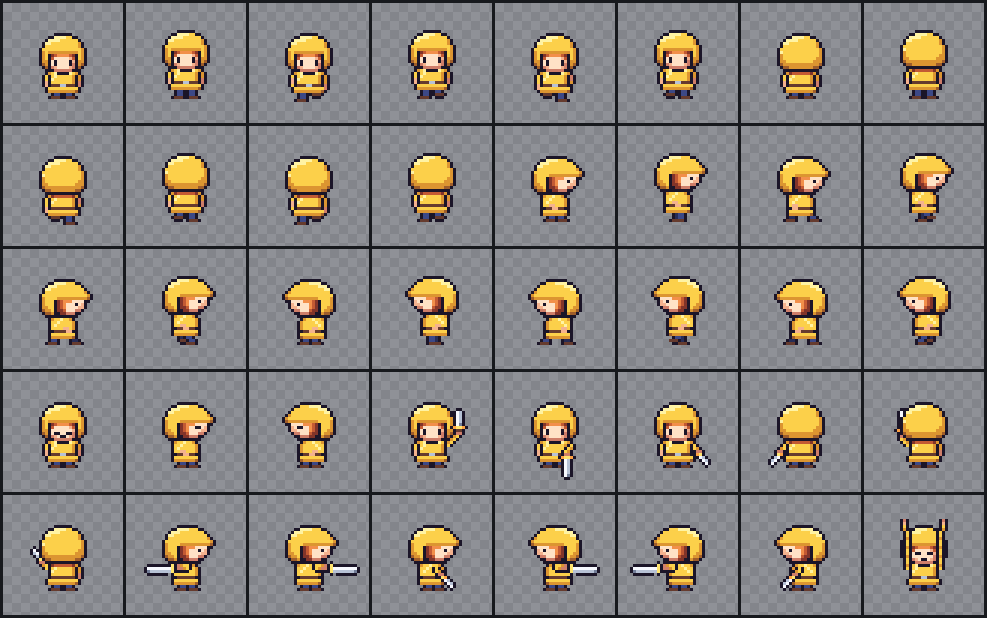
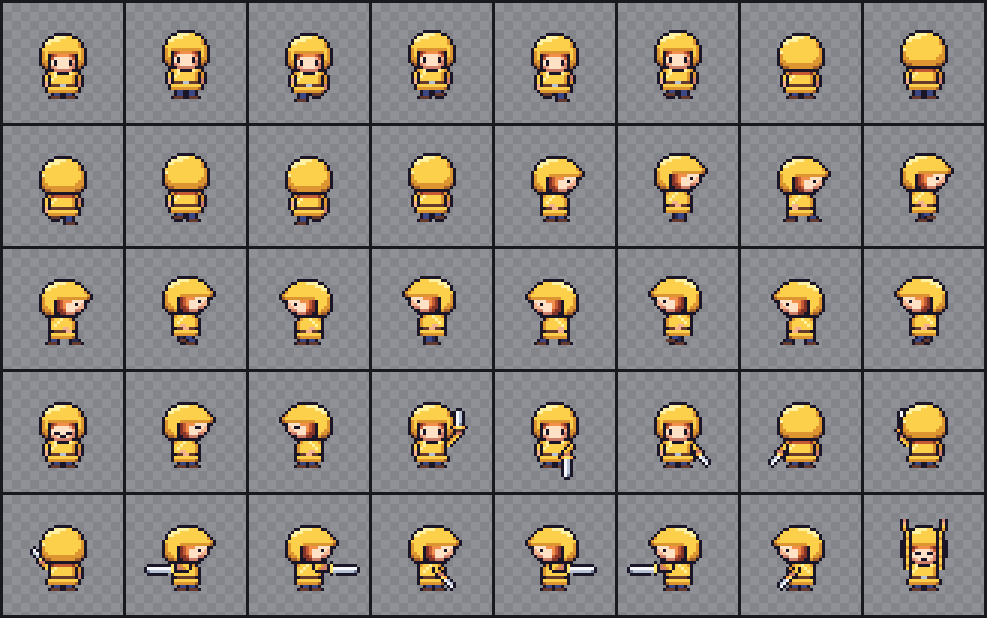
Use one mirror convention: reflect poses around the anchor corner
The pose compiler's `mirror` reflected around the middle of the origin
pixel (column c -> 2 * originX - c) while drawFrame's flipX, like
engines that flip around the atlas pivot, reflects around the anchor
corner (c -> 2 * originX - 1 - c). A compiled mirror and a runtime flip
of the same pose were one pixel apart.

- The compiler now reflects around the origin corner, so a compiled
  left-facing pose placed by its anchor draws exactly what drawFrame
  draws when flipping the right-facing one. A new test rasterizes both
  through the runtime (trimmed and untrimmed sheets) and fails under
  the old rule.
- Tidewatch: the keeper's front view is symmetric around its anchor
  corner (columns 12-27 around x 20); the old rule left the ten
  left-facing poses a pixel right of a true mirror (centroid 20.75
  against 20.25 facing right). They now mirror exactly (19.75). The
  trimmed atlas image is unchanged; its metadata records the offsets,
  and left-facing blade tips mirror the right-facing ones.
- Docs, schema and skill describe the single convention.

diff --git a/test/authoring.test.js b/test/authoring.test.js
@@ -11,10 +11,10 @@ const actor = (poses, extra = {}) => ({ format: 'pixelforge-poses', version: 1, 
   parts: { body: { rows: ['aab', 'a..'], anchor: [0, 1], points: { hand: [2, 0] } }, blade: { rows: ['bb'], anchor: [0, 0], points: { tip: [1, 0] } } }, poses, ...extra });
 const pixelsOf = (project, frame) => { const f = project.frames.find(x => x.name === frame); return [...f.data]; };
 const mirrored = (data, width, height, originX) => {
-  // Reflect pixel columns around the origin column: c -> 2 * originX - c.
+  // Reflect pixel columns around the origin corner: c -> 2 * originX - 1 - c, as drawFrame flips.
   const out = new Array(data.length).fill(0);
   for (let y = 0; y < height; y++) for (let x = 0; x < width; x++) {
-    const tx = 2 * originX - x;
+    const tx = 2 * originX - 1 - x;
     if (tx >= 0 && tx < width) for (let c = 0; c < 4; c++) out[(y * width + tx) * 4 + c] = data[(y * width + x) * 4 + c];
   }
   return out;
@@ -31,16 +31,16 @@ test('pose instances flip their grid, anchor and points inside the part', () => 
   assert.equal(Object.getPrototypeOf(recipe.symbols), Object.prototype);
 });
 
-test('mirrored poses reflect parts, points and markers around the origin column and inherit timing', () => {
+test('mirrored poses reflect parts, points and markers around the origin corner and inherit timing', () => {
   const source = actor([
     { name: 'right', duration: 140, origin: [5, 6], parts: [{ name: 'torso', part: 'body' }, { name: 'held', part: 'blade', attach: { part: 'torso', point: 'hand' } }], markers: [{ name: 'hit', part: 'held', point: 'tip' }] },
     { name: 'left', mirror: 'right' }
   ]);
   const { recipe, metadata } = compilePoses(source), project = renderProject(recipe);
   assert.deepEqual(pixelsOf(project, 'left'), mirrored(pixelsOf(project, 'right'), 12, 8, 5));
-  assert.deepEqual([metadata.poses.right.markers[0].at, metadata.poses.left.markers[0].at], [[8, 5], [2, 5]]);
+  assert.deepEqual([metadata.poses.right.markers[0].at, metadata.poses.left.markers[0].at], [[8, 5], [1, 5]]);
   assert.deepEqual(project.frames.map(f => [f.name, f.duration]), [['right', 140], ['left', 140]]);
-  assert.deepEqual([recipe.anchor, recipe.frames[1].points], [[5, 6], { hit: [2, 5] }]);
+  assert.deepEqual([recipe.anchor, recipe.frames[1].points], [[5, 6], { hit: [1, 5] }]);
   assert.throws(() => compilePoses(actor([{ name: 'left', mirror: 'right' }, { name: 'right', origin: [0, 0], parts: [] }])), /earlier pose/);
   assert.throws(() => compilePoses(actor([{ name: 'right', parts: [] }, { name: 'left', mirror: 'right', origin: [1, 1] }])), /its origin/);
 });
@@ -134,4 +134,37 @@ test('PNG import keeps up to 256 colours as compact, lossless palette grids', ()
   assert.equal(imported.provenance.representation, 'palette grids with hidden-RGB corrections');
   assert.equal(Object.keys(imported.recipe.palette).length, 256);
   assert.deepEqual([...renderProject(imported.recipe).frames[0].data], [...data]);
+});
+
+// A 2D context stand-in that rasterizes drawImage through translate/scale(-1, 1), sampling pixel centres.
+function rasterContext(width, height) {
+  const out = new Uint8ClampedArray(width * height * 4), stack = [];
+  let tx = 0, ty = 0, sx = 1;
+  return {
+    out, imageSmoothingEnabled: true,
+    save() { stack.push([tx, ty, sx]); }, restore() { [tx, ty, sx] = stack.pop(); },
+    translate(x, y) { tx += x * sx; ty += y; }, scale(a) { sx *= a; },
+    drawImage(image, srcX, srcY, srcW, srcH, dx, dy, dw, dh) {
+      for (let j = 0; j < dh; j++) for (let i = 0; i < dw; i++) {
+        const u = srcX + Math.floor(i * srcW / dw), v = srcY + Math.floor(j * srcH / dh), from = (v * image.width + u) * 4;
+        const X = Math.floor(tx + sx * (dx + i + 0.5)), Y = Math.floor(ty + dy + j + 0.5);
+        if (X >= 0 && Y >= 0 && X < width && Y < height && image.data[from + 3]) out.set(image.data.subarray(from, from + 4), (Y * width + X) * 4);
+      }
+    }
+  };
+}
+test('a compiled mirror placed by its anchor draws exactly what drawFrame draws when flipping the original', async () => {
+  const { drawFrame } = await import('../src/runtime.js');
+  for (const trim of [false, true]) {
+    const { recipe } = compilePoses(actor([
+      { name: 'right', origin: [5, 6], parts: [{ name: 'torso', part: 'body' }, { name: 'held', part: 'blade', attach: { part: 'torso', point: 'hand' } }] },
+      { name: 'left', mirror: 'right' }
+    ], { sheet: { trim } }));
+    const atlas = buildAtlas(renderProject(recipe)), sheet = { image: { data: atlas.data, width: atlas.width }, atlas: atlas.metadata };
+    const flipped = rasterContext(32, 24), mirrored = rasterContext(32, 24);
+    drawFrame(flipped, sheet, 'right', 16, 12, { flipX: true });
+    drawFrame(mirrored, sheet, 'left', 16, 12);
+    assert.ok(flipped.out.some(v => v), 'something was drawn');
+    assert.deepEqual(mirrored.out, flipped.out, `trim ${trim}`);
+  }
 });

diff --git a/scripts/generate-schema.js b/scripts/generate-schema.js
@@ -74,7 +74,7 @@ const poses = {
   ...object({ format: { const: 'pixelforge-poses' }, version: { const: 1 }, name: id, width: int(1, 256), height: int(1, 256), palette: schema.properties.palette,
     parts: { type: 'object', maxProperties: 256, propertyNames: id, additionalProperties: object({ rows: ref('rows'), anchor: point, points: { type: 'object', propertyNames: id, additionalProperties: point } }, ['rows']) },
     poses: { ...array({ ...object({ name: id, duration: int(1, 60000), origin: point,
-      mirror: { ...id, description: 'Reflect an earlier pose around its origin column (parts, points and markers); omit parts, markers and origin.' },
+      mirror: { ...id, description: 'Reflect an earlier pose (parts, points and markers) around its origin corner: pixel column c becomes 2 × originX − 1 − c, as drawFrame\'s flipX does. Omit parts, markers and origin.' },
       tween: { ...object({ from: id, to: id, t: num(0, 1, 'Position between the two poses.'), ease }, ['from', 'to', 't']), description: 'An in-between of two earlier authored or tweened poses with the same part instances: origin, offsets and angles interpolate and round; part definitions and flips switch at the eased halfway point. Omit parts and origin; markers are not inherited.' },
       parts: array(object({ name: id, part: id, at: point, attach: object({ part: id, point: id }, ['part', 'point']), flipX: { type: 'boolean', description: 'Mirror this part, its anchor and its points inside the part.' },
         rotate: int(-360, 360, 'Whole degrees clockwise around the part anchor pixel, after any flip. The rotated grid is baked into an editable symbol named <part>-r<degrees> (-fr when flipped); points turn with it; right angles are exact.'),

diff --git a/src/authoring.js b/src/authoring.js
@@ -62,13 +62,15 @@ export function compilePoses(source) {
     if (Object.hasOwn(compiled, pose.name)) fail(`${path}.name`, 'duplicate pose');
     let origin, placed, layers, markers, inputs = null, tween = null;
     if (pose.mirror !== undefined) {
-      // A horizontal mirror of an earlier pose around its origin column: pixel column c maps to 2 * originX - c.
+      // A horizontal mirror of an earlier pose around its origin, the anchor corner between pixel columns originX - 1
+      // and originX: pixel column c maps to 2 * originX - 1 - c. This is the same reflection as drawFrame's flipX and
+      // engines that flip around the atlas pivot, so a compiled mirror and a runtime flip draw identical pixels.
       for (const key of ['parts', 'markers', 'origin', 'tween']) if (pose[key] !== undefined) fail(`${path}.${key}`, 'mirrored poses reuse the source pose, its markers and its origin');
       identifier(pose.mirror, `${path}.mirror`);
       const from = compiled[pose.mirror];
       if (!from) fail(`${path}.mirror`, 'must name an earlier pose');
       origin = from.origin;
-      const reflect = x => 2 * origin[0] - x;
+      const reflect = x => 2 * origin[0] - 1 - x;
       placed = Object.create(null); layers = [];
       for (const layer of from.layers) {
         const instance = from.placed[layer.name], stamp = layer.ops[0], width = symbols[stamp.symbol][0].length;

diff --git a/test/mcp-features.test.js b/test/mcp-features.test.js
@@ -49,7 +49,7 @@ test('MCP compiles pose sources and autotile templates into revisions it can ren
     poses: [{ name: 'right', origin: [2, 3], parts: [{ name: 'body', part: 'body' }], markers: [{ name: 'hand', part: 'body', point: 'hand' }] }, { name: 'left', mirror: 'right' }] };
   const compiled = await mcp.call('pixel_compile', { source: poses, metadata: true });
   assert.ok(!compiled.result.isError, JSON.stringify(compiled.info)); assert.equal(compiled.result.content[1].mimeType, 'image/png');
-  assert.equal(compiled.info.frames, 2); assert.deepEqual(compiled.info.metadata.poses.left.markers[0].at, [1, 3]); // hand (3, 3) reflected around origin column 2
+  assert.equal(compiled.info.frames, 2); assert.deepEqual(compiled.info.metadata.poses.left.markers[0].at, [0, 3]); // hand (3, 3) reflected around the origin corner x = 2
   const template = Array.from({ length: 6 }, () => 'gggg');
   const tiles = await mcp.call('pixel_compile', { source: { format: 'pixelforge-autotile', version: 1, name: 'turf', tile: 2, palette: { g: '#0a0' }, template, frame: 'turf-{mask}' } });
   assert.equal(tiles.info.frames, 47);

diff --git a/test/fx.test.js b/test/fx.test.js
@@ -94,7 +94,7 @@ test('rotated pose parts bake into editable symbols and carry their points', () 
   assert.deepEqual([recipe.symbols['upper-r90'], recipe.symbols['blade-r45']], [['a', 'a', 'a', 'a'], ['b...', '.b..', '..b.', '...c']]);
   assert.deepEqual(metadata.poses.down.parts.sword.points.tip, [4, 15]);
   assert.deepEqual(recipe.frames.find(f => f.name === 'slant').points, { tip: [9, 13] });
-  assert.deepEqual(metadata.poses.back.parts.arm, { definition: 'upper', symbol: 'upper-r90', flipX: true, rotate: -90, topLeft: [4, 8], anchor: [4, 8], points: { elbow: [4, 11] } });
+  assert.deepEqual(metadata.poses.back.parts.arm, { definition: 'upper', symbol: 'upper-r90', flipX: true, rotate: -90, topLeft: [3, 8], anchor: [3, 8], points: { elbow: [3, 11] } });
   assert.deepEqual(recipe.frames.find(f => f.name === 'down').layers[1].ops, [{ op: 'stamp', symbol: 'blade-r90', x: 4, y: 11 }]);
   // Unrotated parts compile exactly as before: plain stamps of the definition.
   assert.deepEqual(recipe.frames[0].layers[0].ops, [{ op: 'stamp', symbol: 'upper', x: 4, y: 8 }]);

diff --git a/test/tidewatch.test.js b/test/tidewatch.test.js
@@ -81,7 +81,8 @@ test('Tidewatch: the game places sprites from atlas anchors and reads reach, hel
   assert.equal(keeper.frames['idle-d'].trimmed, true);
   // Mirrored left-facing strikes carry mirrored blade tips.
   const right = keeper.frames['attack-r-2'].points.hit, left = keeper.frames['attack-l-2'].points.hit;
-  assert.equal(right.x + left.x, 2 * 20); assert.equal(right.y, left.y);
+  // Pixels reflect around the anchor corner x = 20: column c becomes 39 - c, as drawFrame flips.
+  assert.equal(right.x + left.x, 2 * 20 - 1); assert.equal(right.y, left.y);
   assert.ok(keeper.frames['hold-up'].points.item);
   assert.deepEqual([props.frames.pot.anchor, props.frames['flower-red'].anchor, props.frames.chest.anchor], [{ x: 8, y: 13 }, { x: 8, y: 11 }, { x: 8, y: 12 }]);
   assert.deepEqual([font.frames.uM.points.advance.x, font.frames.period.points.advance.x], [6, 2]);

diff --git a/skills/pixel-art/SKILL.md b/skills/pixel-art/SKILL.md
@@ -24,7 +24,7 @@ For MCP, call `pixel_help`, then `pixel_inspect` with `{ "project": recipe }`, a
 
 Avoid gradients, subpixel geometry and antialiasing. Respect the project's requested pixel dimensions. Preserve editable source. Export at scale 1 for game assets unless the user asks for larger pixels baked into the files.
 
-Use the pose compiler for named parts, authored shape replacements, attachments and cue metadata. A pose can `mirror` an earlier pose around its origin, and a part instance can use `flipX`, so left-facing sets need no hand-mirrored copies. Compiled recipes carry pose origins as frame anchors and markers as named frame points; the atlas exports them as pivots and points for game code (feet, hands, blade tips, glyph advances). Keep the pose source authoritative. Use fingerprinted overlays for approved corrections after a generator rebuild; overlays fingerprint each frame they touch, so they reapply (reported as rebased) when only other frames changed, and a changed target frame must be reviewed before creating a new overlay. Use a bounded scene manifest to review overlapping silhouettes, value hierarchy, density and persistent aftermath; give placements `anchor: "frame"` so each frame stands on its own atlas anchor, as it will in the game. PNG import can preserve a native RGB/RGBA editor correction without pretending to reconstruct drawing operations. Optional normal/emissive passes come after the base art works.
+Use the pose compiler for named parts, authored shape replacements, attachments and cue metadata. A pose can `mirror` an earlier pose around its origin (the anchor corner, the same reflection as `drawFrame`'s `flipX`), and a part instance can use `flipX`, so left-facing sets need no hand-mirrored copies; centre symmetric front views on the origin corner. Compiled recipes carry pose origins as frame anchors and markers as named frame points; the atlas exports them as pivots and points for game code (feet, hands, blade tips, glyph advances). Keep the pose source authoritative. Use fingerprinted overlays for approved corrections after a generator rebuild; overlays fingerprint each frame they touch, so they reapply (reported as rebased) when only other frames changed, and a changed target frame must be reviewed before creating a new overlay. Use a bounded scene manifest to review overlapping silhouettes, value hierarchy, density and persistent aftermath; give placements `anchor: "frame"` so each frame stands on its own atlas anchor, as it will in the game. PNG import can preserve a native RGB/RGBA editor correction without pretending to reconstruct drawing operations. Optional normal/emissive passes come after the base art works.
 
 For tiles, review `--view tile` (a 3×3 repeat with doubled-edge and wrap-step evidence) and set `wrap` on frames whose drawing should continue across the edges. Author terrain as one 2×3-tile autotile template and compile it with `autotile` into 47 blob or 16 cardinal tiles; check placement with a scene `tilemap` using an autotile legend before exporting. Share a palette between recipes with `"palette": { "$ref": "palette.json" }`, cycle water or lights with per-frame `palette` overrides instead of redrawing, and use `remap` on stamps and copies for color variants. `copy` reuses a rectangle of a symbol or an earlier frame; `outline` adds a one-pixel outline around every visible pixel drawn so far in the same frame or layer. Set `sheet.trim` to pack only visible pixels in game atlases; the exported runtime's `drawFrame` honors trim offsets, anchors and flipping.
 

diff --git a/docs/art-workflow.md b/docs/art-workflow.md
@@ -91,7 +91,7 @@ Use a `pixelforge-poses` version-1 sidecar, described by [poses.schema.json](../
 }
 ```
 
-`parts` define palette grids, local anchors and local named points. Each pose's `origin` is a source-canvas point (often the ground anchor). Instances draw in listed back-to-front order. Without `attach`, `at` offsets the instance's anchor from the pose origin. With `attach`, it offsets the anchor from a named point on an **earlier** instance. Definition points use the part grid's upper-left origin. A pose can use a different part definition under the same instance name, such as an open versus curled hand. An instance with `"flipX": true` mirrors its grid, anchor and points inside the part. A pose written as `{ "name": "walk-l-1", "mirror": "walk-r-1" }` reflects an earlier pose around its origin column (pixel column c becomes 2 × originX − c), including parts, points and markers, and inherits its duration; it takes no parts, markers or origin of its own. No rotation, smoothing or automatic in-betweens are imposed unless you ask for them.
+`parts` define palette grids, local anchors and local named points. Each pose's `origin` is a source-canvas point (often the ground anchor). Instances draw in listed back-to-front order. Without `attach`, `at` offsets the instance's anchor from the pose origin. With `attach`, it offsets the anchor from a named point on an **earlier** instance. Definition points use the part grid's upper-left origin. A pose can use a different part definition under the same instance name, such as an open versus curled hand. An instance with `"flipX": true` mirrors its grid, anchor and points inside the part. A pose written as `{ "name": "walk-l-1", "mirror": "walk-r-1" }` reflects an earlier pose around its origin, including parts, points and markers, and inherits its duration; it takes no parts, markers or origin of its own. The origin becomes the frame anchor, which names the corner between pixel columns originX − 1 and originX, and the mirror reflects around that corner: pixel column c becomes 2 × originX − 1 − c. That is the same reflection as the runtime's `drawFrame` with `flipX` and engines that flip around the atlas pivot, so a compiled left-facing pose and a runtime-flipped right-facing one draw identical pixels. Centre a symmetric front view on the origin corner (for example columns 12–27 around origin x 20) and the side views mirror around the same line. No rotation, smoothing or automatic in-betweens are imposed unless you ask for them.
 
 An instance with `"rotate": 30` turns its part clockwise by whole degrees (−360 to 360) around the centre of the part's anchor pixel, after any flip, and its points turn with it, so a held item stays in the hand. The rotated grid is baked into the compiled recipe as an ordinary, editable symbol named `<part>-r<degrees>` (`-fr` when flipped). Rotation never invents colours: three Scale2x passes enlarge the grid eight times, which rounds staircase edges, and each output pixel samples the enlarged grid where its rotated centre lands (the RotSprite approach). Right angles are exact. A cleanup pass then removes doubled corners the resampling leaves; set `"cleanup": false` to keep the raw result (`<part>-r<degrees>-raw`). Small parts lose detail at odd angles, so inspect the symbol and correct it by patching the compiled recipe or drawing a replacement part for key poses.
 

diff --git a/docs/reports/tidewatch-showcase-report.md b/docs/reports/tidewatch-showcase-report.md
@@ -2,6 +2,12 @@
 
 27 September 2026 · Baseline `1e47c22` (0.1.0) · Windows 11, Node v24.19.0 · Browser checks in the Chromium pane of the Claude desktop app.
 
+## Update 4: one mirror convention
+
+28 September 2026. The pose compiler's `mirror` now reflects around the origin corner (pixel column c becomes 2 × originX − 1 − c), the same reflection as `drawFrame`'s `flipX` and engines that flip around the atlas pivot. A new test places a compiled mirror by its anchor and flips the original with `drawFrame` through a rasterizing context: the pixels are identical for trimmed and untrimmed sheets, and the test fails under the old rule.
+
+The keeper's front and back views are symmetric around that corner (columns 12–27 around x 20, centroid 20.0), and its right-facing side views sit just right of it (centroid 20.25). The old pixel-column rule put the left-facing views at 20.75, a pixel right of a true mirror. They are now at 19.75. Only the ten mirrored poses moved, by one pixel. The trimmed keeper atlas image is unchanged; its metadata records the new offsets. Left-facing blade tips now mirror the right-facing ones exactly around the anchor. Crabs and gulls already flipped at runtime and are unchanged.
+
 ## Update 3: compact compiled terrain and frame anchors in scenes
 
 28 September 2026. Two of the open items below are fixed.
@@ -63,7 +69,7 @@ After the first pass I fixed every bug and implemented every missing feature bel
 - **TW-M11 — added: context cells.** A tilemap cut from a larger map could not see neighbours beyond its edge, so edge tiles drew false coastlines. A `null` legend entry now marks cells that count for matching but are never drawn.
 - **Fixed in Update 3: verbose compiled recipes.** `shore.json` grew from 157 KB to 184 KB, because each frame spells out four `copy` ops and a palette, while its template is 3 KB.
 - **Fixed in Update 3: scene placements ignore frame anchors.** `make-scene.mjs` reads anchors from the recipes and passes them explicitly. An animated placement cannot follow per-frame anchors.
-- **Open: two mirror conventions.** The pose compiler's `mirror` reflects around the origin pixel column, which matched the hand-mirrored art. The runtime's `drawFrame` flips around the anchor corner. They differ by one pixel, so use one or the other for a given asset.
+- **Fixed in Update 4: two mirror conventions.** The pose compiler's `mirror` reflects around the origin pixel column, which matched the hand-mirrored art. The runtime's `drawFrame` flips around the anchor corner. They differ by one pixel, so use one or the other for a given asset.
 
 **Checks.** `npm test` passes 104/104. `check:quality`, `check:tidewatch`, the Emberfall stress run (0 findings) and the Pillow checks (`verify-exports.py`, `verify-quality.py`, `verify-trim.py`, `verify-emberfall.py`) all pass. I checked the scene viewer's light picker in the browser pane.
 

diff --git a/docs/agent-guide.md b/docs/agent-guide.md
@@ -130,7 +130,7 @@ MCP: call `pixel_help` once (`topic: "poses" | "scenes" | "autotile"` returns th
 
 `pixel_compile` turns a `pixelforge-poses` source, a `pixelforge-autotile` template or a `pixelforge-fx` particle source into a recipe revision with a contact sheet (`metadata: true` adds pose attachments and markers, the autotile mask table, or particle counts). `pixel_scene` renders a `pixelforge-scene` manifest at a time and returns the image with placements and warnings; assets may be inline recipes, files inside the server root or `{"revision": id}`, and `export: true` writes a replayable scene bundle. `pixel_import` turns a base64 PNG (`data`) or a file inside the root (`path`) into a lossless recipe revision. Requests may be up to 16 MiB; an oversized request gets a JSON-RPC error and the server keeps running.
 
-Exports include a TexturePacker-style RGBA atlas, named sequences, exact durations, individual frames, APNGs, CSS and a Canvas player. `sheet.scale` applies to every raster export and atlas coordinate. Metadata coordinates are already scaled; do not multiply them again. The browser player's optional `scale` is an additional display scale. Frames with anchors or points carry `anchor`, `pivot` and `points` in the atlas. `player.js` also exports `loadSpriteSheet(url)`, `frameAt(atlas, animation, ms)` and `drawFrame(context, sheet, name, x, y, { scale, flipX, anchor })` for games that draw many sprites into one canvas; `drawFrame` places a frame by its anchor and honors trimmed rectangles.
+Exports include a TexturePacker-style RGBA atlas, named sequences, exact durations, individual frames, APNGs, CSS and a Canvas player. `sheet.scale` applies to every raster export and atlas coordinate. Metadata coordinates are already scaled; do not multiply them again. The browser player's optional `scale` is an additional display scale. Frames with anchors or points carry `anchor`, `pivot` and `points` in the atlas. `player.js` also exports `loadSpriteSheet(url)`, `frameAt(atlas, animation, ms)` and `drawFrame(context, sheet, name, x, y, { scale, flipX, anchor })` for games that draw many sprites into one canvas; `drawFrame` places a frame by its anchor and honors trimmed rectangles; `flipX` mirrors around the anchor corner, exactly as a compiled `mirror` pose does.
 
 For grid-based game engines, prefer padding 0. For atlas importers, use the exact frame rectangles. Atlas animations list **expanded playback order** (including reverse/pingpong) and a loop flag.
 
